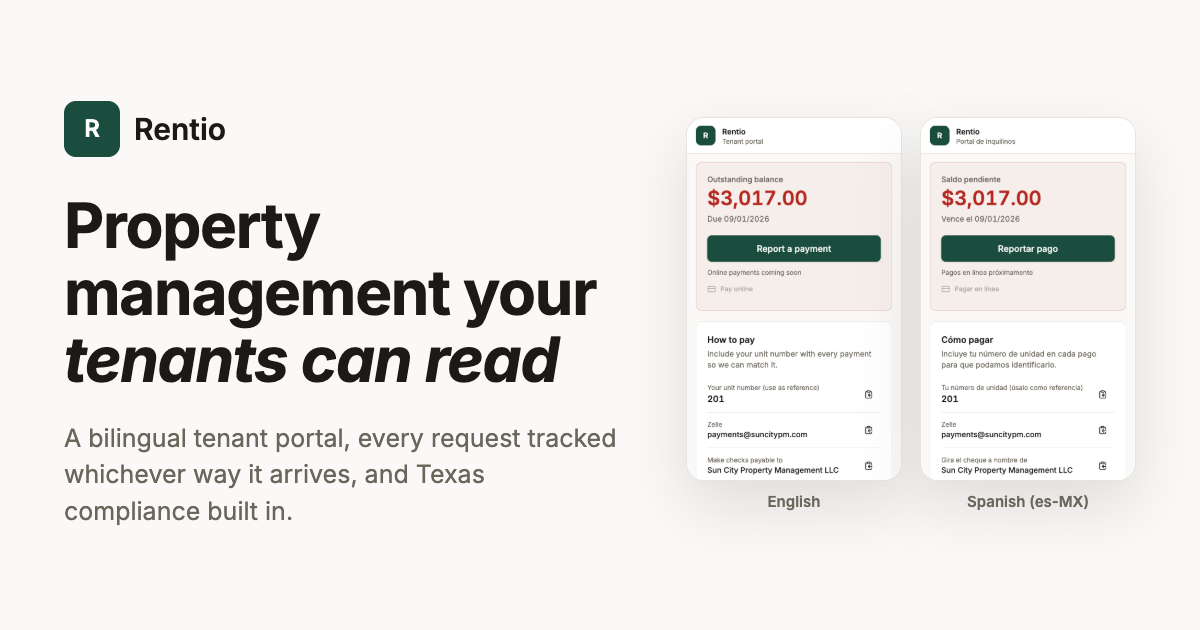
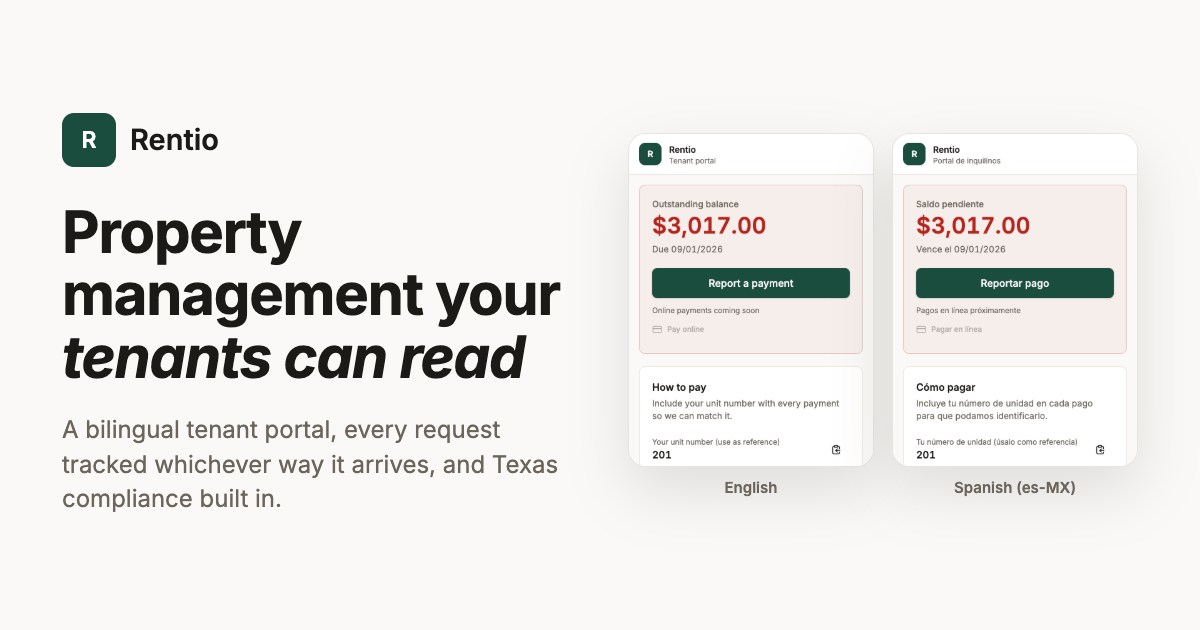
Verification pass: re-crop the screenshots off a real company's name
Prompt 42.

THE ONE THAT MATTERED. The demo seed's landlord is "Sun City Property
Management LLC" at payments@suncitypm.com, and the portal screenshots carried
both. Searching that name turns up several REAL El Paso property managers
trading as Sun City - Sun City Rentals, Sun City Property Investments LLC,
Sun City Investments, Sun City Management Corporation. A plausible
competitor's name and email address on a public marketing page, in a market
where people ask around, is the problem LANDING.md's "no real client data"
rule exists for. All three screenshots are re-cropped above the how-to-pay
details, and the Open Graph card was rebuilt from the new crops.

What the images now contain: the product UI, a demo balance, a due date and a
unit number. No tenant name, no address, no phone, no company.

Also fixed here: the hero's eyebrow pill stretched to the full width of its
container, because Container renders a w-full div and the pill was `grid`.

VERIFIED
  Claims      - no AI claim; no compliance guarantee (the only "guarantee" on
                the page is the line saying it does not); nothing states or
                implies a WhatsApp message becomes a work order; no logos, no
                testimonials, no adoption counts, no prices, no trial.
  CTAs        - 4 booking links, one URL, one source file. All carry
                target=_blank, rel="noopener noreferrer" and an accessible
                name saying they open a new tab. 7 in-page anchors, 0 dead.
[…]

Changed region(s): [[0.0308, 0.181, 0.9558, 0.8444], [0.0308, 0.3016, 0.4933, 0.6333], [0.0308, 0.1508, 0.185, 0.2714]]

diff --git a/src/components/marketing/hero.tsx b/src/components/marketing/hero.tsx
@@ -46,12 +46,12 @@ export function Hero() {
         <div className="flex flex-col items-center justify-center gap-y-4 px-4 text-center sm:px-6">
           {/* The spinning-border pill. Its two animations are the flip/rotate
               pair ported in prompt 33. */}
-          <Container className="relative overflow-hidden">
+          <Container className="relative flex justify-center overflow-hidden">
             {/* The ring is `bg-border`; the spark is a conic gradient rotating
                 over it, and `backdrop` covers the middle so only a travelling
                 highlight on the edge shows. Vetra got the same effect from a
                 1000px inset shadow, which only works on a dark page. */}
-            <span className="relative mx-auto grid overflow-hidden rounded-full bg-border p-px">
+            <span className="relative inline-grid overflow-hidden rounded-full bg-border p-px">
               <span
                 aria-hidden
                 className="absolute inset-0 h-full w-full animate-flip overflow-hidden rounded-full [mask:linear-gradient(white,_transparent_70%)] before:absolute before:aspect-square before:w-[200%] before:rotate-[-90deg] before:animate-rotate before:bg-[conic-gradient(from_0deg,transparent_0_300deg,var(--primary)_360deg)] before:content-[''] before:[inset:0_auto_auto_50%] before:[translate:-50%_-15%]"
@@ -97,7 +97,7 @@ export function Hero() {
                   src={portalEsHero}
                   alt={t("hero.imageAlt")}
                   width={390}
-                  height={600}
+                  height={530}
                   loading="eager"
                   className="block h-auto w-[260px] lg:w-[300px]"
                 />

diff --git a/src/components/marketing/bilingual.tsx b/src/components/marketing/bilingual.tsx
@@ -59,7 +59,7 @@ export function Bilingual() {
                         src={shot.src}
                         alt=""
                         width={390}
-                        height={660}
+                        height={530}
                         loading="lazy"
                         className="block h-auto w-full"
                       />
